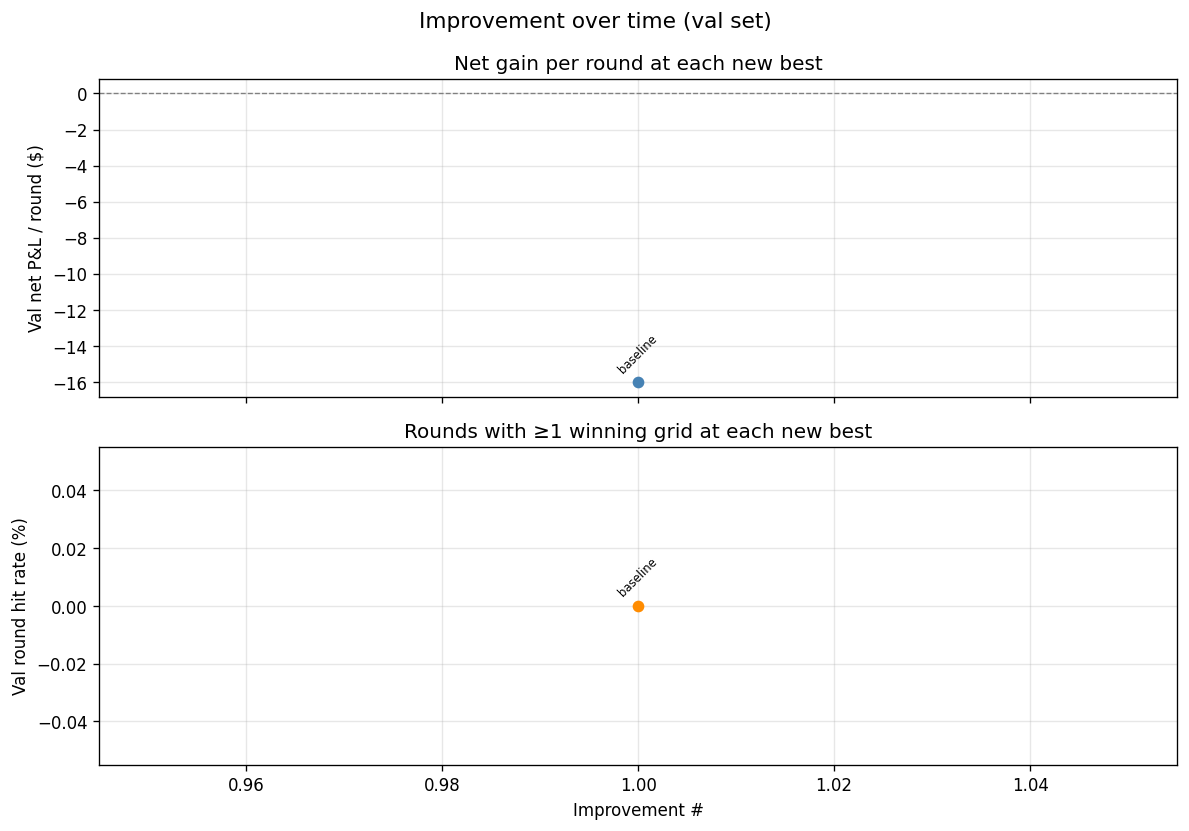
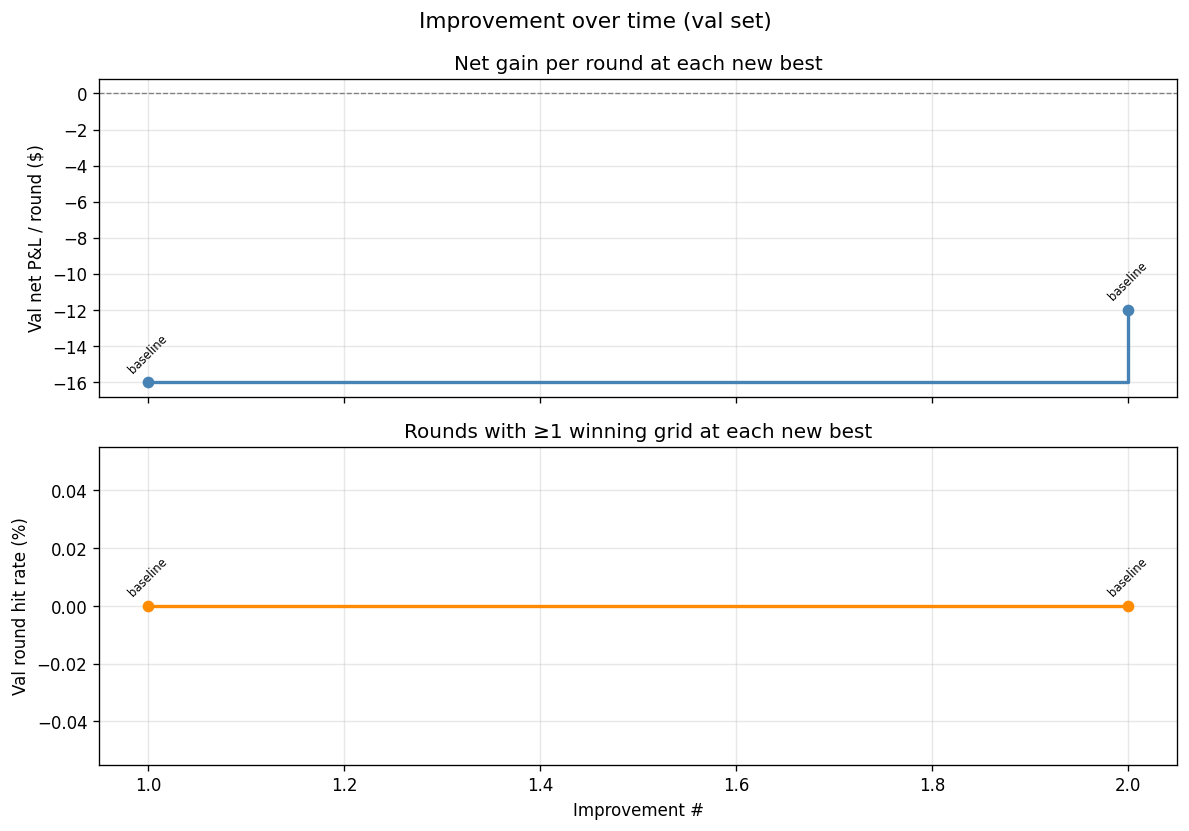
improve: [lr_low] score=-11.00 val_net=-11.00/round val_hit=0%
Keywords: linear, lr=0.001
Train=8  Val=2  Test=2 rounds

diff --git a/datasets/loto-foot-8-2026-Q1/README.md b/datasets/loto-foot-8-2026-Q1/README.md
@@ -21,5 +21,7 @@
 <!-- LEADERBOARD_START -->
 | Rank | Trial | Strategy | Keywords | Val Net/Round | Val Hit% | Test Net/Round | Test Hit% | Commit |
 |------|-------|----------|----------|--------------|----------|----------------|-----------|--------|
-| 1 | 1 | `baseline` | linear, lr=0.005, entropy=0.05, k=20, ep=6k | $-16.00 | 0.0% | $-16.00 | 0.0% | 8140806 |
+| 1 | 2 | `baseline` | linear, lr=0.005, entropy=0.05, k=20, ep=6k | $-12.00 | 0.0% | $-12.00 | 0.0% | 61a9605 |
+| 2 | 3 | `lr_high` | linear, lr=0.02 | $-14.00 | 0.0% | $-14.00 | 0.0% | — |
+| 3 | 1 | `baseline` | linear, lr=0.005, entropy=0.05, k=20, ep=6k | $-16.00 | 0.0% | $-16.00 | 0.0% | 8140806 |
 <!-- LEADERBOARD_END -->
